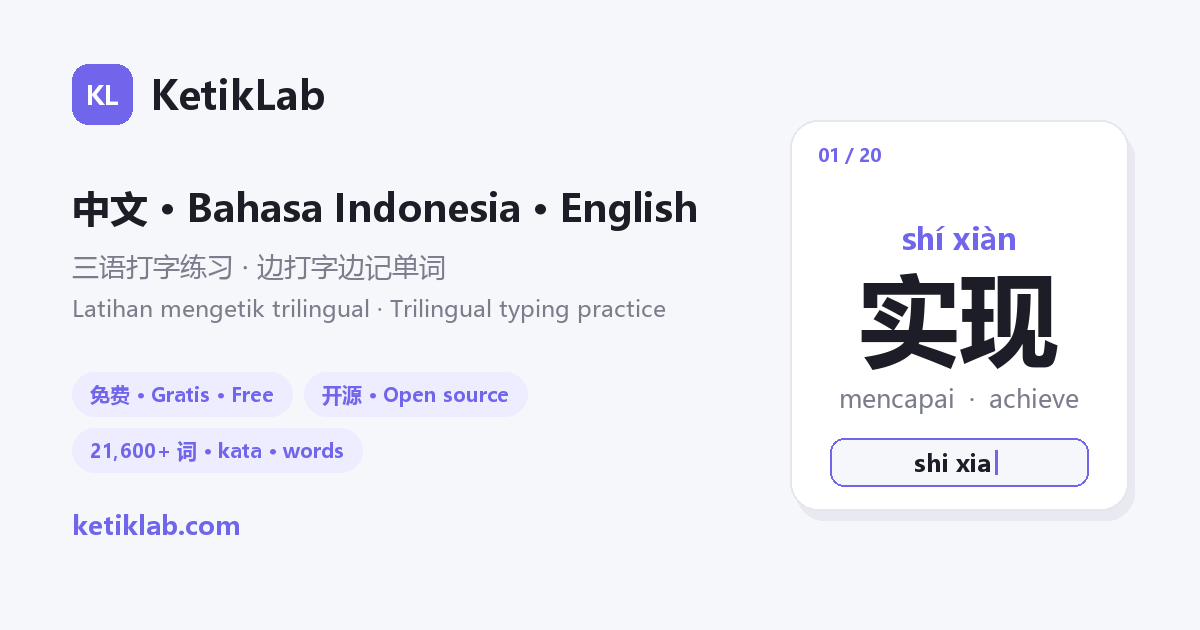
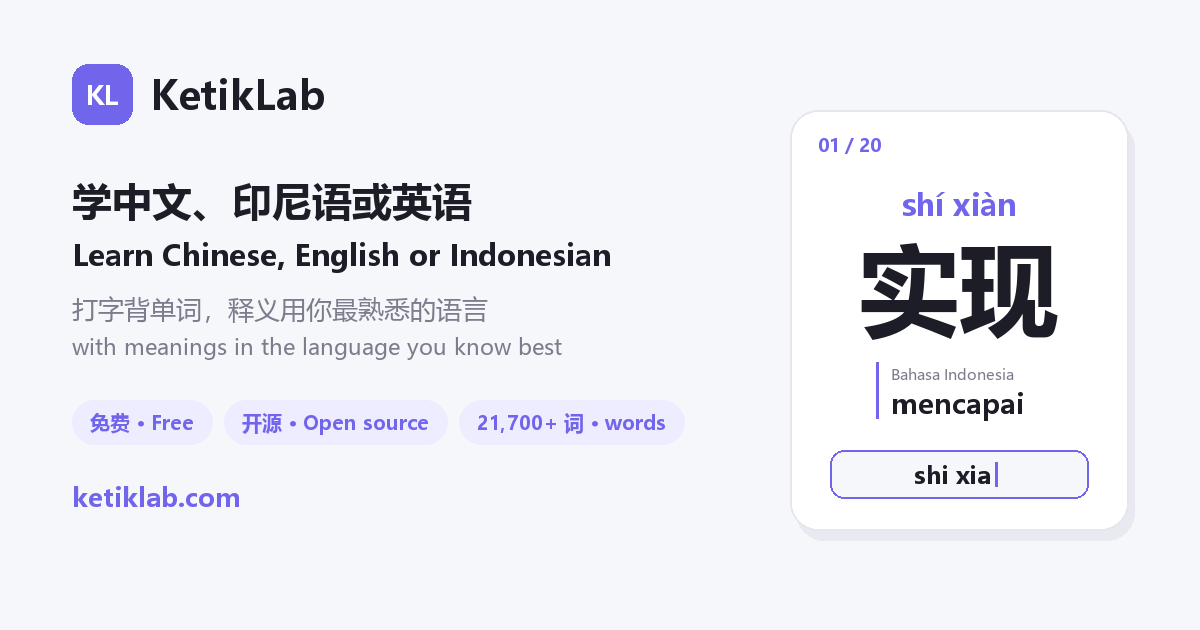
assets: one meaning line on the share card and in the demo video; Anki decks by direction
The share card's mock word card showed "mencapai · achieve" under 实现 and the
demo video opened on "三种语言", both showing the three-languages-together card
the product no longer has. The card now shows one Indonesian meaning line
with its label, and the video renders one meaning language per cut: the id cut
shows 实现 with mencapai, the en cut 实现 with achieve, and the zh cut is for
Chinese speakers learning Indonesian (kesempatan with 机会). The topic tile reads
主题词汇 / Kosakata Tematik / Words by Topic with a count floored from
words.json. public/og.png is regenerated; the delivered videos are not
re-rendered here.

scripts/export-anki.py replaces the single trilingual TSV with one deck per
direction (Chinese with Indonesian meanings, Indonesian with Chinese,
English with Indonesian), each with one meaning field.

diff --git a/tools/render-demo-video.py b/tools/render-demo-video.py
@@ -1,6 +1,8 @@
 # KetikLab product demo video, rendered frame by frame with Pillow and encoded with ffmpeg.
-# usage: python render.py <zh|id|en> <v|h> [out_dir]     v = 1080x1920 (9:16), h = 1920x1080 (16:9)
-import sys, os, subprocess, shutil, io, math, random
+# usage: python render.py <zh|id|en> <v|h> [out_dir] [nourl] [frame=6.0 ...]     v = 1080x1920 (9:16), h = 1920x1080 (16:9)
+# One meaning language per render, in the viewer's own language: id and en learn Chinese (实现 → mencapai / achieve);
+# the zh cut is for Chinese speakers learning Indonesian (kesempatan → 机会). frame=<seconds> writes PNGs instead of a video.
+import sys, os, subprocess, shutil, io, json, math, random
 from PIL import Image, ImageDraw, ImageFont
 
 sys.stdout = io.TextIOWrapper(sys.stdout.buffer, encoding="utf-8")
@@ -8,6 +10,7 @@ LANG = sys.argv[1] if len(sys.argv) > 1 else "zh"
 ORIENT = sys.argv[2] if len(sys.argv) > 2 else "v"
 OUT_DIR = sys.argv[3] if len(sys.argv) > 3 else os.path.dirname(os.path.abspath(__file__))
 NOURL = "nourl" in sys.argv[4:]   # 小红书 treats an on-screen domain as off-platform steering; this cut ends on the wordmark
+FRAMES = [float(a[6:]) for a in sys.argv[4:] if a.startswith("frame=")]
 W, H = (1080, 1920) if ORIENT == "v" else (1920, 1080)
 FPS = 30
 S = W / 1080 if ORIENT == "v" else H / 1080          # scale relative to a 1080-wide phone frame
@@ -24,23 +27,38 @@ def F(size, bold=False):
 def px(v): return round(v * S)
 def ease(t): t = max(0.0, min(1.0, t)); return 1 - (1 - t) ** 3
 def lerp(a, b, t): return a + (b - a) * t
+def fit(d, text, size, bold, maxw):
+    while size > 20 and d.textlength(text, font=F(size, bold)) > maxw: size -= 2
+    return F(size, bold)
 def mix(hex1, hex2, t):
     a = tuple(int(hex1[i:i+2], 16) for i in (1, 3, 5)); b = tuple(int(hex2[i:i+2], 16) for i in (1, 3, 5))
     return tuple(int(lerp(a[i], b[i], t)) for i in range(3))
 
 T = {
-    "hook":   {"zh": ("三种语言", "边打字边背单词"), "id": ("Tiga bahasa", "mengetik sambil menghafal"), "en": ("Three languages", "type it, remember it")},
-    "langs":  {"zh": "中文 · Bahasa Indonesia · English", "id": "Mandarin · Indonesia · Inggris", "en": "Chinese · Indonesian · English"},
-    "card":   {"zh": "拼音在上，汉字在下，照着打", "id": "Pinyin di atas, hanzi di bawah — tinggal ketik", "en": "Pinyin above, character below — just type"},
+    "hook":   {"zh": ("边打字边背单词", "释义用你最熟悉的语言"), "id": ("Ketik sambil menghafal", "artinya dalam bahasamu sendiri"), "en": ("Type it, remember it", "meanings in your own language")},
+    # the learning languages are a choice (或 / atau / or), never joined by "·" as if shown together
+    "langs":  {"zh": "学中文、印尼语或英语", "id": "Belajar Mandarin, Inggris, atau Indonesia", "en": "Learn Chinese, English or Indonesian"},
+    "card":   {"zh": "印尼语单词照着打，释义用中文", "id": "Lihat hanzi dan artinya, ketik pinyin-nya", "en": "See the character and its meaning, type the pinyin"},
     "ladder": {"zh": "中文四步阶梯", "id": "Tangga Mandarin empat langkah", "en": "A four-step Chinese ladder"},
     "steps":  {"zh": ("认读", "打拼音", "选汉字", "输入法"), "id": ("Baca", "Ketik pinyin", "Pilih hanzi", "IME"), "en": ("Read", "Type pinyin", "Pick hanzi", "IME")},
-    "libs":   {"zh": ("三语精选词", "考试词库", "词条总数", "经典朗读"), "id": ("Kata pilihan trilingual", "Kamus ujian", "Total kata", "Bacaan klasik"), "en": ("Curated trilingual words", "Exam libraries", "Words in total", "Classic readings")},
+    "libs":   {"zh": ("主题词汇", "考试词库", "词条总数", "经典朗读"), "id": ("Kosakata Tematik", "Kamus ujian", "Total kata", "Bacaan klasik"), "en": ("Words by Topic", "Exam libraries", "Words in total", "Classic readings")},
     "srs":    {"zh": "艾宾浩斯间隔复习 · 学习日历", "id": "Pengulangan berjarak · kalender belajar", "en": "Spaced repetition · learning calendar"},
     "cta":    {"zh": ("免费", "开源", "无广告"), "id": ("Gratis", "Open source", "Tanpa iklan"), "en": ("Free", "Open source", "No ads")},
     "cta2":   {"zh": "浏览器打开就能用 · 可安装到手机", "id": "Langsung di browser · bisa dipasang di HP", "en": "Runs in the browser · installs on your phone"},
 }
-WORDS = [("实现", "shí xiàn", "shi xian", "mencapai  ·  achieve"), ("机会", "jī huì", "ji hui", "kesempatan  ·  opportunity")]
-LIB_VALUES = (3701, 10, 21600, 161)   # the site total is shown as a floor ("21,600+") so it does not go stale as the library grows
+TARGET = "id" if LANG == "zh" else "zh"
+# (word, pronunciation, meaning): pinyin as typed for Chinese targets, the syllables line for Indonesian ones
+WORDS = {"zh": [("kesempatan", "ke·sem·pat·an", "机会"), ("mencapai", "men·ca·pai", "实现")],
+         "id": [("实现", "shi xian", "mencapai"), ("机会", "ji hui", "kesempatan")],
+         "en": [("实现", "shi xian", "achieve"), ("机会", "ji hui", "opportunity")]}[LANG]
+MEANING_LABEL = {"zh": "中文", "id": "Bahasa Indonesia", "en": "English"}[LANG]
+DATA = os.path.join(os.path.dirname(os.path.dirname(os.path.abspath(__file__))), "public", "data")
+def load(name): return json.load(open(os.path.join(DATA, name), encoding="utf-8"))
+def floor100(n): return n // 100 * 100
+_manifest = load("manifest.json"); _topic = len(load("words.json"))
+# (value, is_floor): growing counts are rounded down to the hundred and shown with "+" so they do not go stale
+LIB_VALUES = ((floor100(_topic), True), (len(_manifest), False),
+              (floor100(_topic + sum(len(load(r["file"])) for r in _manifest)), True), (len(load("readings.json")), False))
 
 def brand(d, x, y, size=1.0):
     s = px(64 * size)
@@ -49,7 +67,7 @@ def brand(d, x, y, size=1.0):
     d.text((x + s + px(18 * size), y + s / 2), "KetikLab", font=F(40 * size, True), fill=TEXT, anchor="lm")
 
 def caption(d, text, y, size=40, color=TEXT, bold=True):
-    d.text((W / 2, y), text, font=F(size, bold), fill=color, anchor="mm")
+    d.text((W / 2, y), text, font=fit(d, text, size, bold, W * 0.9), fill=color, anchor="mm")
 
 def pill(d, x, y, label, size=26, on=True):
     f = F(size, True); w = d.textlength(label, font=f) + px(44); h = px(size * 2.1)
@@ -57,8 +75,16 @@ def pill(d, x, y, label, size=26, on=True):
     d.text((x + w / 2, y + h / 2), label, font=f, fill="white" if on else PURPLE, anchor="mm")
     return w
 
-def word_card(d, cx, cy, cw, ch, word, pinyin, typed, done, alpha):
+def meaning_line(d, cx, y, text, alpha):
+    # the app's .meanings span: accent bar, small language label, one gloss
+    fl, fm = F(26), F(48, True); bw = max(d.textlength(MEANING_LABEL, font=fl), d.textlength(text, font=fm)); x = cx - bw / 2
+    d.rectangle((x - px(24), y - px(50), x - px(20), y + px(50)), fill=mix(BG, PURPLE, alpha))
+    d.text((x, y - px(24)), MEANING_LABEL, font=fl, fill=mix(BG, MUTED, alpha), anchor="lm")
+    d.text((x, y + px(20)), text, font=fm, fill=mix(BG, TEXT, alpha), anchor="lm")
+
+def word_card(d, cx, cy, cw, ch, entry, typed, done, alpha):
     # alpha fades the whole card in; done draws the check state
+    word, pron, meaning = entry
     bg = mix(BG, SURF, alpha); ln = mix(BG, LINE, alpha)
     x0, y0, x1, y1 = cx - cw / 2, cy - ch / 2, cx + cw / 2, cy + ch / 2
     d.rounded_rectangle((x0 + px(8), y0 + px(12), x1 + px(8), y1 + px(12)), px(34), fill=mix(BG, "#e9e9f2", alpha))
@@ -66,41 +92,58 @@ def word_card(d, cx, cy, cw, ch, word, pinyin, typed, done, alpha):
     if alpha < 0.35: return
     tc = mix(BG, TEXT, alpha); pc = mix(BG, PURPLE, alpha); mc = mix(BG, MUTED, alpha)
     d.text((x0 + px(40), y0 + px(52)), "01 / 20", font=F(24, True), fill=pc, anchor="lm")
-    d.text((cx, y0 + ch * 0.27), pinyin, font=F(44, True), fill=pc, anchor="mm")
-    d.text((cx, y0 + ch * 0.47), word, font=F(150, True), fill=tc, anchor="mm")
-    d.text((cx, y0 + ch * 0.66), WORDS[[w[0] for w in WORDS].index(word)][3], font=F(34), fill=mc, anchor="mm")
-    bx0, by0, bx1, by1 = x0 + px(60), y0 + ch * 0.76, x1 - px(60), y0 + ch * 0.76 + px(84)
-    d.rounded_rectangle((bx0, by0, bx1, by1), px(20), fill=BG, outline=MINT if done else PURPLE, width=px(3))
-    f = F(36, True); shown = typed if not done else word_card.full
-    if shown:
-        tw = d.textlength(shown, font=f)
-        d.text((cx, (by0 + by1) / 2), shown, font=f, fill=TEXT, anchor="mm")
-        if not done:
-            d.rectangle((cx + tw / 2 + px(6), by0 + px(20), cx + tw / 2 + px(10), by1 - px(20)), fill=PURPLE)
+    if TARGET == "zh":
+        # 打拼音: no pinyin above the character (the app hides it at this step); syllables fill in below as they are typed
+        d.text((cx, y0 + ch * 0.29), word, font=F(150, True), fill=tc, anchor="mm")
+        meaning_line(d, cx, y0 + ch * 0.49, meaning, alpha)
+        syl = pron.split(" "); f = F(40, True); gap = px(28); done_len = len(typed.replace(" ", ""))
+        shown = [s if done or done_len >= len("".join(syl[:k + 1])) else "•" * len(s) for k, s in enumerate(syl)]
+        widths = [max(d.textlength(t, font=f), d.textlength(s, font=f)) for t, s in zip(shown, syl)]
+        x = cx - (sum(widths) + gap * (len(syl) - 1)) / 2; y = y0 + ch * 0.64
+        for k, t in enumerate(shown):
+            ok = t == syl[k]; now = not ok and done_len >= len("".join(syl[:k])); col = tc if ok else pc if now else mc
+            d.text((x + widths[k] / 2, y), t, font=f, fill=col, anchor="mm")
+            d.rectangle((x, y + px(34), x + widths[k], y + px(37)), fill=col); x += widths[k] + gap
+        bx0, by0, bx1, by1 = x0 + px(60), y0 + ch * 0.76, x1 - px(60), y0 + ch * 0.76 + px(84)
+        d.rounded_rectangle((bx0, by0, bx1, by1), px(20), fill=BG, outline=MINT if done else PURPLE, width=px(3))
+        f = F(36, True); shown = pron if done else typed; tw = d.textlength(shown, font=f) if shown else 0
+        if shown: d.text((cx, (by0 + by1) / 2), shown, font=f, fill=TEXT, anchor="mm")
+        if not done: d.rectangle((cx + tw / 2 + px(6), by0 + px(20), cx + tw / 2 + px(10), by1 - px(20)), fill=PURPLE)
+    else:
+        # Indonesian target: letters turn purple and underline as they are typed; the syllables line sits under the word
+        f = fit(d, word, 130, True, cw - px(120)); x = cx - d.textlength(word, font=f) / 2; base = y0 + ch * 0.36
+        n = len(word) if done else len(typed)
+        for k, c in enumerate(word):
+            lw = d.textlength(c, font=f); col = pc if k < n else tc
+            d.text((x, base), c, font=f, fill=col, anchor="ls")
+            if k < n: d.rectangle((x, base + px(18), x + lw, base + px(22)), fill=col)
+            x += lw
+        d.text((cx, y0 + ch * 0.47), pron, font=F(40), fill=mc, anchor="mm")
+        meaning_line(d, cx, y0 + ch * 0.64, meaning, alpha)
+        d.text((cx, y0 + ch * 0.84), "直接敲键盘  ·  ENTER 跳过", font=F(28), fill=mc, anchor="mm")
     if done:
         r = px(30); d.ellipse((x1 - px(80) - r, y0 + px(52) - r, x1 - px(80) + r, y0 + px(52) + r), fill=MINT)
         d.line((x1 - px(80) - r * 0.45, y0 + px(52), x1 - px(80) - r * 0.1, y0 + px(52) + r * 0.35, x1 - px(80) + r * 0.5, y0 + px(52) - r * 0.4), fill="white", width=px(6), joint="curve")
-word_card.full = ""
 
 # ---------------- scenes: each gets (draw, t) with t in seconds from scene start ----------------
 def sc_hook(d, t):
     a = ease(t / 0.6); y = H * 0.36 + (1 - a) * px(40)
     brand(d, W / 2 - px(150), H * 0.18, 1.15)
-    l1, l2 = T["hook"][LANG]
-    d.text((W / 2, y), l1, font=F(78, True), fill=mix(BG, TEXT, a), anchor="mm")
-    b = ease((t - 0.35) / 0.6); d.text((W / 2, y + px(110)), l2, font=F(78, True), fill=mix(BG, PURPLE, b), anchor="mm")
-    c = ease((t - 0.9) / 0.6); d.text((W / 2, y + px(230)), T["langs"][LANG], font=F(38), fill=mix(BG, MUTED, c), anchor="mm")
+    l1, l2 = T["hook"][LANG]; maxw = px(1080) * 0.9
+    d.text((W / 2, y), l1, font=fit(d, l1, 78, True, maxw), fill=mix(BG, TEXT, a), anchor="mm")
+    b = ease((t - 0.35) / 0.6); d.text((W / 2, y + px(110)), l2, font=fit(d, l2, 78, True, maxw), fill=mix(BG, PURPLE, b), anchor="mm")
+    c = ease((t - 0.9) / 0.6); d.text((W / 2, y + px(230)), T["langs"][LANG], font=fit(d, T["langs"][LANG], 38, False, maxw), fill=mix(BG, MUTED, c), anchor="mm")
 
 def sc_card(d, t, total):
     caption(d, T["card"][LANG], H * 0.12, 42)
     per = total / len(WORDS); i = min(int(t / per), len(WORDS) - 1); lt = t - i * per
-    word, pinyin, full, _ = WORDS[i]; word_card.full = full
+    entry = WORDS[i]; full = entry[1] if TARGET == "zh" else entry[0]
     a = ease(lt / 0.45)
     typing_start, per_char = 1.2, 0.16
     n = int(max(0, lt - typing_start) / per_char); typed = full[:min(n, len(full))]
     done = n >= len(full) + 2
     cw, ch = (W * 0.86, H * 0.5) if ORIENT == "v" else (W * 0.42, H * 0.78)
-    word_card(d, W / 2, H * 0.55, cw, ch, word, pinyin, typed, done, a)
+    word_card(d, W / 2, H * 0.55, cw, ch, entry, typed, done, a)
 
 def sc_ladder(d, t):
     caption(d, T["ladder"][LANG], H * 0.14, 42)
@@ -125,14 +168,14 @@ def sc_libs(d, t):
     cols = 2 if ORIENT == "v" else 4
     bw, bh = (W * 0.4, H * 0.19) if ORIENT == "v" else (W * 0.2, H * 0.4)
     accents = (PURPLE, MINT, AMBER, BLUE)
-    for k, (lab, val) in enumerate(zip(labels, LIB_VALUES)):
+    for k, (lab, (val, floor)) in enumerate(zip(labels, LIB_VALUES)):
         r, c = divmod(k, cols)
         x = W * 0.06 + c * (bw + W * 0.04) if ORIENT == "v" else W * 0.05 + c * (bw + W * 0.0333)
         y = H * 0.29 + r * (bh + H * 0.03) if ORIENT == "v" else H * 0.28
         a = ease((t - k * 0.25) / 0.5); shown = int(val * ease((t - k * 0.25) / 1.4))
         d.rounded_rectangle((x, y, x + bw, y + bh), px(30), fill=mix(BG, SURF, a), outline=mix(BG, LINE, a), width=px(2))
         d.rounded_rectangle((x + px(30), y + px(36), x + px(42), y + bh - px(36)), px(6), fill=mix(BG, accents[k], a))
-        d.text((x + px(70), y + bh * 0.42), f"{shown:,}" + ("+" if val == 21600 and shown == val else ""), font=F(64, True), fill=mix(BG, TEXT, a), anchor="lm")
+        d.text((x + px(70), y + bh * 0.42), f"{shown:,}" + ("+" if floor and shown == val else ""), font=F(64, True), fill=mix(BG, TEXT, a), anchor="lm")
         d.text((x + px(70), y + bh * 0.72), lab, font=F(26), fill=mix(BG, MUTED, a), anchor="lm")
     caption(d, T["langs"][LANG], H * 0.14, 34, MUTED, False)
 
@@ -169,7 +212,8 @@ def sc_cta(d, t):
     c = ease((t - 0.9) / 0.5)
     d.text((W / 2, H * (0.62 if ORIENT == "v" else 0.58)), T["cta2"][LANG], font=F(32), fill=mix(BG, MUTED, c), anchor="mm")
 
-SCENES = [(2.6, sc_hook), (9.0, sc_card), (3.8, sc_ladder), (4.2, sc_libs), (4.4, sc_srs), (3.6, sc_cta)]
+# the zh cut learns Indonesian, so the Chinese ladder scene is left out of it
+SCENES = [(2.6, sc_hook), (9.0, sc_card)] + ([] if TARGET == "id" else [(3.8, sc_ladder)]) + [(4.2, sc_libs), (4.4, sc_srs), (3.6, sc_cta)]
 TOTAL = sum(s[0] for s in SCENES)
 
 def frame(tg):
@@ -195,6 +239,10 @@ def ffmpeg_exe():
 def main():
     os.makedirs(OUT_DIR, exist_ok=True)
     out = os.path.join(OUT_DIR, f"ketiklab-{LANG}-{'9x16' if ORIENT == 'v' else '16x9'}.mp4")
+    if FRAMES:
+        for tg in FRAMES:
+            png = out[:-4] + f"-t{tg:.1f}.png"; frame(tg).save(png); print(png)
+        return
     exe = ffmpeg_exe(); n = int(TOTAL * FPS)
     if not exe:
         gif = out[:-4] + ".gif"; frames = [frame(k / 10).convert("P", palette=Image.ADAPTIVE) for k in range(int(TOTAL * 10))]

diff --git a/scripts/export-anki.py b/scripts/export-anki.py
@@ -1,15 +1,22 @@
 #!/usr/bin/env python3
-"""Export the trilingual collection (public/data/words.json) as an Anki-importable TSV.
+"""Export the Words by Topic collection (public/data/words.json) as Anki-importable TSV decks, one per direction.
 
-    python3 scripts/export-anki.py [out.tsv]        default: dist/ketiklab-trilingual.tsv
+    python3 scripts/export-anki.py [out_dir]        default: dist/
 
-Only words.json is exported: it is authored in-house. The exam libraries are not — en-toefl.json in
-particular carries no redistribution licence — so nothing else is read.
+    ketiklab-topic-zh-id.tsv   learn Chinese,    Indonesian meaning   (zh, pinyin, id)
+    ketiklab-topic-id-zh.tsv   learn Indonesian, Chinese meaning      (id, idSyllables, zh)
+    ketiklab-topic-en-id.tsv   learn English,    Indonesian meaning   (en, phonetic, id)
 
-The file uses Anki's header directives (separator, columns, tags column), so File → Import picks the
-fields up by name. Suggested note type: three fields on the front in turn (zh → id/en, id → zh/en,
-en → zh/id) so one import gives three card directions. Keep the deck name stable across updates —
-AnkiWeb ratings survive only when the name does not change.
+Each note carries the word being learnt, its pronunciation (empty where the collection has none), ONE meaning in
+the learner's language, level, category and tags — never several languages on one card. Rows that share a word
+(a few Chinese forms appear under two concepts) become one note with their meanings joined by "; ".
+
+Only words.json is exported: it is authored in-house. The exam libraries are not — en-toefl.json in particular
+carries no redistribution licence — so nothing else is read.
+
+The files use Anki's header directives (separator, columns, tags column), so File → Import picks the fields up by
+name. Keep each deck name stable across updates — AnkiWeb ratings survive only when the name does not change; these
+decks replace the old ketiklab-trilingual.tsv, which should be retired rather than renamed.
 """
 import io
 import json
@@ -18,9 +25,14 @@ import sys
 
 sys.stdout = io.TextIOWrapper(sys.stdout.buffer, encoding="utf-8")
 ROOT = os.path.dirname(os.path.dirname(os.path.abspath(__file__)))
-OUT = sys.argv[1] if len(sys.argv) > 1 else os.path.join(ROOT, "dist", "ketiklab-trilingual.tsv")
+OUT_DIR = sys.argv[1] if len(sys.argv) > 1 else os.path.join(ROOT, "dist")
 
-COLUMNS = ["zh", "pinyin", "id", "en", "phonetic", "idSyllables", "example_zh", "example_id", "example_en", "level", "category", "tags"]
+# (file, learning-language field, pronunciation field, meaning field)
+DECKS = [
+    ("ketiklab-topic-zh-id.tsv", "zh", "pinyin", "id"),
+    ("ketiklab-topic-id-zh.tsv", "id", "idSyllables", "zh"),
+    ("ketiklab-topic-en-id.tsv", "en", "phonetic", "id"),
+]
 
 
 def clean(value):
@@ -28,27 +40,44 @@ def clean(value):
     return " ".join(str(value or "").split())
 
 
+def learn_word(w, lang):
+    # the Chinese field can list alternative forms ("实现；达到"); the first is the one practised and the one pinyin spells
+    return clean(w.get(lang)).split("；")[0].strip() if lang == "zh" else clean(w.get(lang))
+
+
+def export(words, name, lang, pron, meaning):
+    notes = {}
+    for w in words:
+        word, gloss = learn_word(w, lang), clean(w.get(meaning))
+        if not word or not gloss:
+            continue
+        level, category = clean(w.get("level")), clean(w.get("category"))
+        n = notes.get(word)
+        if n is None:
+            notes[word] = {"pron": clean(w.get(pron)), "glosses": [gloss], "level": level, "category": category,
+                           "tags": ["KetikLab", category, level]}
+            continue
+        if gloss not in n["glosses"]:
+            n["glosses"].append(gloss)
+        n["pron"] = n["pron"] or clean(w.get(pron))
+        n["tags"] += [t for t in (category, level) if t not in n["tags"]]
+    columns = [lang, pron, meaning, "level", "category", "tags"]
+    path = os.path.join(OUT_DIR, name)
+    with open(path, "w", encoding="utf-8", newline="\n") as f:
+        f.write("#separator:tab\n#html:false\n#columns:" + "\t".join(columns) + "\n#tags column:" + str(len(columns)) + "\n")
+        for word, n in notes.items():
+            f.write("\t".join([word, n["pron"], "; ".join(n["glosses"]), n["level"], n["category"], " ".join(t for t in n["tags"] if t)]) + "\n")
+    with_pron = sum(1 for n in notes.values() if n["pron"])
+    print(f"export-anki: {len(notes)} notes -> {path} ({with_pron} with {pron})")
+
+
 def main():
     words = json.load(open(os.path.join(ROOT, "public", "data", "words.json"), encoding="utf-8"))
     if isinstance(words, dict) and "words" in words:
         words = words["words"]
-    rows = []
-    for w in words:
-        ex = w.get("examples") or {}
-        rows.append([
-            clean(w.get("zh")), clean(w.get("pinyin")), clean(w.get("id")), clean(w.get("en")),
-            clean(w.get("phonetic")), clean(w.get("idSyllables")),
-            clean(ex.get("zh")), clean(ex.get("id")), clean(ex.get("en")),
-            clean(w.get("level")), clean(w.get("category")),
-            "KetikLab " + clean(w.get("category")) + " " + clean(w.get("level")),
-        ])
-    os.makedirs(os.path.dirname(OUT), exist_ok=True)
-    with open(OUT, "w", encoding="utf-8", newline="\n") as f:
-        f.write("#separator:tab\n#html:false\n#columns:" + "\t".join(COLUMNS) + "\n#tags column:" + str(len(COLUMNS)) + "\n")
-        for r in rows:
-            f.write("\t".join(r) + "\n")
-    with_ex = sum(1 for r in rows if r[6] or r[7] or r[8])
-    print(f"export-anki: {len(rows)} notes -> {OUT} ({with_ex} with example sentences)")
+    os.makedirs(OUT_DIR, exist_ok=True)
+    for deck in DECKS:
+        export(words, *deck)
 
 
 if __name__ == "__main__":

diff --git a/tools/og-card.py b/tools/og-card.py
@@ -1,36 +1,47 @@
 from PIL import Image, ImageDraw, ImageFont
-import io, sys
+import io, json, sys
 sys.stdout = io.TextIOWrapper(sys.stdout.buffer, encoding='utf-8')
 W, H = 1200, 630
 BG, SURF, LINE, TEXT, MUTED, PURPLE, PURPLE_SOFT = "#f6f7fb", "#ffffff", "#e6e6ef", "#1c1d26", "#7b7d8c", "#7165eb", "#eeecff"
 F = lambda size, bold=False: ImageFont.truetype("C:/Windows/Fonts/" + ("msyhbd.ttc" if bold else "msyh.ttc"), size)
+load = lambda name: json.load(open("public/data/" + name, encoding="utf-8"))
+# site total as a floor ("21,700+") so the card does not go stale as the libraries grow
+TOTAL = (len(load("words.json")) + sum(len(load(r["file"])) for r in load("manifest.json"))) // 100 * 100
 im = Image.new("RGB", (W, H), BG); d = ImageDraw.Draw(im)
 LEFT, RIGHT_LIMIT = 72, 740          # left column must stay clear of the card at x=790
 d.rounded_rectangle((LEFT, 64, LEFT + 60, 124), 16, fill=PURPLE)
 d.text((LEFT + 30, 94), "KL", font=F(26, True), fill="white", anchor="mm")
 d.text((LEFT + 78, 94), "KetikLab", font=F(40, True), fill=TEXT, anchor="lm")
-d.text((LEFT, 206), "中文 · Bahasa Indonesia · English", font=F(38, True), fill=TEXT, anchor="lm")
-d.text((LEFT, 266), "三语打字练习 · 边打字边记单词", font=F(27), fill=MUTED, anchor="lm")
-d.text((LEFT, 308), "Latihan mengetik trilingual · Trilingual typing practice", font=F(23), fill=MUTED, anchor="lm")
-x, y = LEFT, 372
-for label in ("免费 · Gratis · Free", "开源 · Open source", "21,600+ 词 · kata · words"):
+# the learning languages are a choice (或 / or), never joined by "·" as if shown together
+LINES = (("学中文、印尼语或英语", 40, True, TEXT, 200), ("Learn Chinese, English or Indonesian", 29, True, TEXT, 254),
+         ("打字背单词，释义用你最熟悉的语言", 26, False, MUTED, 308), ("with meanings in the language you know best", 22, False, MUTED, 346))
+for text, size, bold, color, ty in LINES:
+    d.text((LEFT, ty), text, font=F(size, bold), fill=color, anchor="lm")
+x, y = LEFT, 400
+for label in ("免费 · Free", "开源 · Open source", f"{TOTAL:,}+ 词 · words"):
     f = F(20, True); w = d.textlength(label, font=f) + 36
     if x + w > RIGHT_LIMIT: x, y = LEFT, y + 56
     d.rounded_rectangle((x, y, x + w, y + 44), 22, fill=PURPLE_SOFT); d.text((x + 18, y + 22), label, font=f, fill=PURPLE, anchor="lm"); x += w + 12
 d.text((LEFT, y + 96), "ketiklab.com", font=F(26, True), fill=PURPLE, anchor="lm")
-cx0, cy0, cx1, cy1 = 790, 120, 1128, 510
+cx0, cy0, cx1, cy1 = 790, 110, 1128, 530
 d.rounded_rectangle((cx0 + 6, cy0 + 10, cx1 + 6, cy1 + 10), 28, fill="#e9e9f2")
 d.rounded_rectangle((cx0, cy0, cx1, cy1), 28, fill=SURF, outline=LINE, width=2)
 mx = (cx0 + cx1) // 2
 d.text((cx0 + 28, cy0 + 34), "01 / 20", font=F(18, True), fill=PURPLE, anchor="lm")
-d.text((mx, cy0 + 118), "shí xiàn", font=F(30, True), fill=PURPLE, anchor="mm")
-d.text((mx, cy0 + 196), "实现", font=F(100, True), fill=TEXT, anchor="mm")
-d.text((mx, cy0 + 278), "mencapai  ·  achieve", font=F(25), fill=MUTED, anchor="mm")
-d.rounded_rectangle((cx0 + 40, cy0 + 318, cx1 - 40, cy0 + 366), 14, fill=BG, outline=PURPLE, width=2)
+d.text((mx, cy0 + 94), "shí xiàn", font=F(30, True), fill=PURPLE, anchor="mm")
+d.text((mx, cy0 + 176), "实现", font=F(100, True), fill=TEXT, anchor="mm")
+# one meaning line in one language, drawn like the app's .meanings span: accent bar, small label, gloss
+fl, fm = F(15), F(27, True); bw = max(d.textlength("Bahasa Indonesia", font=fl), d.textlength("mencapai", font=fm)) + 16
+bx = mx - bw / 2
+d.rectangle((bx - 8, cy0 + 252, bx - 6, cy0 + 308), fill=PURPLE)
+d.text((bx + 6, cy0 + 264), "Bahasa Indonesia", font=fl, fill=MUTED, anchor="lm")
+d.text((bx + 6, cy0 + 293), "mencapai", font=fm, fill=TEXT, anchor="lm")
+d.rounded_rectangle((cx0 + 40, cy0 + 340, cx1 - 40, cy0 + 388), 14, fill=BG, outline=PURPLE, width=2)
 f = F(24, True); tw = d.textlength("shi xia", font=f)
-d.text((mx - 6, cy0 + 342), "shi xia", font=f, fill=TEXT, anchor="mm")
-d.rectangle((mx - 6 + tw / 2 + 4, cy0 + 330, mx - 6 + tw / 2 + 6, cy0 + 354), fill=PURPLE)
+d.text((mx - 6, cy0 + 364), "shi xia", font=f, fill=TEXT, anchor="mm")
+d.rectangle((mx - 6 + tw / 2 + 4, cy0 + 352, mx - 6 + tw / 2 + 6, cy0 + 376), fill=PURPLE)
 # assert nothing in the left column crosses into the card
-assert d.textlength("中文 · Bahasa Indonesia · English", font=F(38, True)) + LEFT < cx0 - 20
+widest = max(d.textlength(t, font=F(s, b)) for t, s, b, _, _ in LINES)
+assert widest + LEFT < cx0 - 20 and y + 96 < H - 30
 im.save("public/og.png", optimize=True)
-print("public/og.png", im.size, "%d KB" % (len(open("public/og.png", "rb").read()) // 1024), "| 标题宽", int(d.textlength("中文 · Bahasa Indonesia · English", font=F(38, True))), "| 胶囊末行 y", y)
+print("public/og.png", im.size, "%d KB" % (len(open("public/og.png", "rb").read()) // 1024), "| 最宽行", int(widest), "| 胶囊末行 y", y, "| 总词数", TOTAL)
